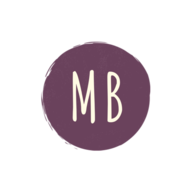
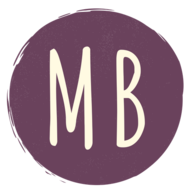
Cover photo changes & companies section added

diff --git a/css/new-age.min.css b/css/new-age.min.css
@@ -1,1 +1,1 @@
-body,html{width:100%;height:100%}body{font-family:Muli,Helvetica,Arial,sans-serif}a{color:#69425c;-webkit-transition:all .35s;-moz-transition:all .35s;transition:all .35s}a:focus,a:hover{color:#4a2e41}hr{max-width:100px;margin:25px auto 0;border-width:1px;border-color:rgba(34,34,34,.1)}hr.light{border-color:#fff}h1,h2,h3,h4,h5,h6{font-family:Catamaran,Helvetica,Arial,sans-serif;font-weight:500;font-size:20px;letter-spacing:1px}p{font-size:18px;line-height:1.5;margin-bottom:20px}section{padding:100px 0}section h2{font-size:50px}#mainNav{border-color:rgba(34,34,34,.05);background-color:#fff;-webkit-transition:all .35s;-moz-transition:all .35s;transition:all .35s;font-family:Catamaran,Helvetica,Arial,sans-serif;font-weight:500;font-size:20px;letter-spacing:1px}#mainNav .navbar-brand{color:#69425c;font-size:30px!important;font-family:Catamaran,Helvetica,Arial,sans-serif;font-weight:500;font-size:20px;letter-spacing:1px}#mainNav .navbar-brand:focus,#mainNav .navbar-brand:hover{color:#4a2e41}#mainNav .navbar-toggler{font-size:12px;padding:8px 10px;color:#222}#mainNav .navbar-nav>li>a{font-size:11px;font-family:Lato,Helvetica,Arial,sans-serif;letter-spacing:2px;text-transform:uppercase}#mainNav .navbar-nav>li>a.active{color:#69425c!important;background-color:transparent}#mainNav .navbar-nav>li>a.active:hover{background-color:transparent}#mainNav .navbar-nav>li>a,#mainNav .navbar-nav>li>a:focus{color:#222}#mainNav .navbar-nav>li>a:focus:hover,#mainNav .navbar-nav>li>a:hover{color:#69425c}@media (min-width:992px){#mainNav{border-color:transparent;background-color:transparent}#mainNav .navbar-brand{color:#69425c;font-size:30px!important}#mainNav .navbar-nav>li>a,#mainNav .navbar-nav>li>a:focus{color:rgba(255,255,255,.7)}#mainNav .navbar-nav>li>a:focus:hover,#mainNav .navbar-nav>li>a:hover{color:#fff}#mainNav.navbar-shrink{border-color:rgba(34,34,34,.1);background-color:#fff}#mainNav.navbar-shrink .navbar-brand{color:#69425c}#mainNav.navbar-shrink .navbar-nav>li>a,#mainNav.navbar-shrink .navbar-nav>li>a:focus{color:#222}#mainNav.navbar-shrink .navbar-nav>li>a:focus:hover,#mainNav.navbar-shrink .navbar-nav>li>a:hover{color:#69425c}}header.masthead{position:relative;width:100%;padding-top:150px;padding-bottom:100px;color:#fff;background:url(../img/maxresdefault.jpg),#7b4397;background:url(../img/maxresdefault.jpg),-webkit-linear-gradient(to left,#7b4397,#dc2430);background:url(../img/maxresdefault.jpg),linear-gradient(to left,#7b4397,#dc2430)}header.masthead .header-content{max-width:500px;margin-bottom:100px;text-align:center}header.masthead .header-content h1{font-size:30px}header.masthead .device-container{max-width:325px;margin-right:auto;margin-left:auto}header.masthead .device-container .screen img{border-radius:3px}@media (min-width:992px){header.masthead{height:100vh;min-height:775px;padding-top:0;padding-bottom:0}header.masthead .header-content{margin-bottom:0;text-align:left}header.masthead .header-content h1{font-size:40px}header.masthead .device-container{max-width:325px}}section.download{position:relative;padding:150px 0}section.download h2{font-size:50px;margin-top:0}section.download .badges .badge-link{display:block;margin-bottom:25px}section.download .badges .badge-link:last-child{margin-bottom:0}section.download .badges .badge-link img{height:60px}@media (min-width:768px){section.download .badges .badge-link{display:inline-block;margin-bottom:0}}@media (min-width:768px){section.download h2{font-size:70px}}section.features .section-heading{margin-bottom:100px}section.features .section-heading h2{margin-top:0}section.features .section-heading p{margin-bottom:0}section.features .device-container,section.features .feature-item{max-width:325px;margin:0 auto}section.features .device-container{margin-bottom:100px}@media (min-width:992px){section.features .device-container{margin-bottom:0}}section.features .feature-item{padding-top:50px;padding-bottom:50px;text-align:center}section.features .feature-item h3{font-size:30px}section.features .feature-item i{font-size:80px;display:block;margin-bottom:15px;background:-webkit-linear-gradient(to left,#7b4397,#dc2430);background:linear-gradient(to left,#7b4397,#dc2430);-webkit-background-clip:text;-webkit-text-fill-color:transparent}section.cta{position:relative;padding:250px 0;background-image:url(../img/bg-cta.jpg);background-position:center;-webkit-background-size:cover;-moz-background-size:cover;-o-background-size:cover;background-size:cover}section.cta .cta-content{position:relative;z-index:1}section.cta .cta-content h2{font-size:50px;max-width:450px;margin-top:0;margin-bottom:25px;color:#fff}@media (min-width:768px){section.cta .cta-content h2{font-size:80px}}section.cta .overlay{position:absolute;top:0;left:0;width:100%;height:100%;background-color:rgba(0,0,0,.5)}section.contact{text-align:center}section.contact h2{margin-top:0;margin-bottom:25px}section.contact h2 i{color:#dd4b39}section.contact ul.list-social{margin-bottom:0}section.contact ul.list-social li a{font-size:40px;line-height:80px;display:block;width:80px;height:80px;color:#fff;border-radius:100%}section.contact ul.list-social li.social-twitter a{background-color:#1da1f2}section.contact ul.list-social li.social-twitter a:hover{background-color:#0d95e8}section.contact ul.list-social li.social-facebook a{background-color:#3b5998}section.contact ul.list-social li.social-facebook a:hover{background-color:#344e86}section.contact ul.list-social li.social-google-plus a{background-color:#dd4b39}section.contact ul.list-social li.social-google-plus a:hover{background-color:#d73925}footer{padding:25px 0;text-align:center;color:rgba(255,255,255,.3);background-color:#222}footer p{font-size:12px;margin:0}footer ul{margin-bottom:0}footer ul li a{font-size:12px;color:rgba(255,255,255,.3)}footer ul li a.active,footer ul li a:active,footer ul li a:focus,footer ul li a:hover{text-decoration:none}.bg-primary{background:#69425c;background:-webkit-linear-gradient(#69425c,#59384e);background:linear-gradient(#69425c,#59384e)}.text-primary{color:#69425c}.no-gutter>[class*=col-]{padding-right:0;padding-left:0}.btn-outline{color:#fff;border:1px solid;border-color:#fff}.btn-outline.active,.btn-outline:active,.btn-outline:focus,.btn-outline:hover{color:#fff;border-color:#69425c;background-color:#69425c}.btn{border-radius:300px;font-family:Lato,Helvetica,Arial,sans-serif;letter-spacing:2px;text-transform:uppercase}.btn-xl{font-size:11px;padding:15px 45px}
+body,html{width:100%;height:100%}body{font-family:Muli,Helvetica,Arial,sans-serif}a{color:#69425c;-webkit-transition:all .35s;-moz-transition:all .35s;transition:all .35s}a:focus,a:hover{color:#4a2e41}hr{max-width:100px;margin:25px auto 0;border-width:1px;border-color:rgba(34,34,34,.1)}hr.light{border-color:#fff}h1,h2,h3,h4,h5,h6{font-family:Catamaran,Helvetica,Arial,sans-serif;font-weight:500;font-size:20px;letter-spacing:1px}p{font-size:18px;line-height:1.5;margin-bottom:20px}section{padding:100px 0}section h2{font-size:50px}#mainNav{border-color:rgba(34,34,34,.05);background-color:#fff;-webkit-transition:all .35s;-moz-transition:all .35s;transition:all .35s;font-family:Catamaran,Helvetica,Arial,sans-serif;font-weight:500;font-size:20px;letter-spacing:1px}#mainNav .navbar-brand{color:#69425c;font-size:30px!important;font-family:Catamaran,Helvetica,Arial,sans-serif;font-weight:500;font-size:20px;letter-spacing:1px}#mainNav .navbar-brand:focus,#mainNav .navbar-brand:hover{color:#4a2e41}#mainNav .navbar-toggler{font-size:12px;padding:8px 10px;color:#222}#mainNav .navbar-nav>li>a{font-size:11px;font-family:Lato,Helvetica,Arial,sans-serif;letter-spacing:2px;text-transform:uppercase}#mainNav .navbar-nav>li>a.active{color:#69425c!important;background-color:transparent}#mainNav .navbar-nav>li>a.active:hover{background-color:transparent}#mainNav .navbar-nav>li>a,#mainNav .navbar-nav>li>a:focus{color:#222}#mainNav .navbar-nav>li>a:focus:hover,#mainNav .navbar-nav>li>a:hover{color:#69425c}@media (min-width:992px){#mainNav{border-color:transparent;background-color:transparent}#mainNav .navbar-brand{color:#69425c;font-size:30px!important}#mainNav .navbar-nav>li>a,#mainNav .navbar-nav>li>a:focus{color:rgba(255,255,255,.7)}#mainNav .navbar-nav>li>a:focus:hover,#mainNav .navbar-nav>li>a:hover{color:#fff}#mainNav.navbar-shrink{border-color:rgba(34,34,34,.1);background-color:#fff}#mainNav.navbar-shrink .navbar-brand{color:#69425c}#mainNav.navbar-shrink .navbar-nav>li>a,#mainNav.navbar-shrink .navbar-nav>li>a:focus{color:#222}#mainNav.navbar-shrink .navbar-nav>li>a:focus:hover,#mainNav.navbar-shrink .navbar-nav>li>a:hover{color:#69425c}}header.masthead{position:relative;width:100%;padding-top:150px;padding-bottom:100px;color:#fff;background:url(../img/cover_women_cooking.jpg),#7b4397;background:url(../img/cover_women_cooking.jpg),-webkit-linear-gradient(to left,#7b4397,#dc2430);background:url(../img/cover_women_cooking.jpg),linear-gradient(to left,#7b4397,#dc2430)}header.masthead .header-content{max-width:500px;margin-bottom:100px;text-align:center}header.masthead .header-content h1{font-size:30px}header.masthead .device-container{max-width:325px;margin-right:auto;margin-left:auto}header.masthead .device-container .screen img{border-radius:3px}@media (min-width:992px){header.masthead{height:100vh;min-height:775px;padding-top:0;padding-bottom:0}header.masthead .header-content{margin-bottom:0;text-align:left}header.masthead .header-content h1{font-size:40px}header.masthead .device-container{max-width:325px}}section.download{position:relative;padding:150px 0}section.download h2{font-size:50px;margin-top:0}section.download .badges .badge-link{display:block;margin-bottom:25px}section.download .badges .badge-link:last-child{margin-bottom:0}section.download .badges .badge-link img{height:60px}@media (min-width:768px){section.download .badges .badge-link{display:inline-block;margin-bottom:0}}@media (min-width:768px){section.download h2{font-size:70px}}section.features .section-heading{margin-bottom:100px}section.features .section-heading h2{margin-top:0}section.features .section-heading p{margin-bottom:0}section.features .device-container,section.features .feature-item{max-width:325px;margin:0 auto}section.features .device-container{margin-bottom:100px}@media (min-width:992px){section.features .device-container{margin-bottom:0}}section.features .feature-item{padding-top:50px;padding-bottom:50px;text-align:center}section.features .feature-item h3{font-size:30px}section.features .feature-item i{font-size:80px;display:block;margin-bottom:15px;background:-webkit-linear-gradient(to left,#7b4397,#dc2430);background:linear-gradient(to left,#7b4397,#dc2430);-webkit-background-clip:text;-webkit-text-fill-color:transparent}section.cta{position:relative;padding:250px 0;background-image:url(../img/bg-cta.jpg);background-position:center;-webkit-background-size:cover;-moz-background-size:cover;-o-background-size:cover;background-size:cover}section.cta .cta-content{position:relative;z-index:1}section.cta .cta-content h2{font-size:50px;max-width:450px;margin-top:0;margin-bottom:25px;color:#fff}@media (min-width:768px){section.cta .cta-content h2{font-size:80px}}section.cta .overlay{position:absolute;top:0;left:0;width:100%;height:100%;background-color:rgba(0,0,0,.5)}section.contact{text-align:center}section.contact h2{margin-top:0;margin-bottom:25px}section.contact h2 i{color:#dd4b39}section.contact ul.list-social{margin-bottom:0}section.contact ul.list-social li a{font-size:40px;line-height:80px;display:block;width:80px;height:80px;color:#fff;border-radius:100%}section.contact ul.list-social li.social-twitter a{background-color:#1da1f2}section.contact ul.list-social li.social-twitter a:hover{background-color:#0d95e8}section.contact ul.list-social li.social-facebook a{background-color:#3b5998}section.contact ul.list-social li.social-facebook a:hover{background-color:#344e86}section.contact ul.list-social li.social-google-plus a{background-color:#dd4b39}section.contact ul.list-social li.social-google-plus a:hover{background-color:#d73925}footer{padding:25px 0;text-align:center;color:rgba(255,255,255,.3);background-color:#222}footer p{font-size:12px;margin:0}footer ul{margin-bottom:0}footer ul li a{font-size:12px;color:rgba(255,255,255,.3)}footer ul li a.active,footer ul li a:active,footer ul li a:focus,footer ul li a:hover{text-decoration:none}.bg-primary{background:#69425c;background:-webkit-linear-gradient(#69425c,#59384e);background:linear-gradient(#69425c,#59384e)}.text-primary{color:#69425c}.no-gutter>[class*=col-]{padding-right:0;padding-left:0}.btn-outline{color:#fff;border:1px solid;border-color:#fff}.btn-outline.active,.btn-outline:active,.btn-outline:focus,.btn-outline:hover{color:#fff;border-color:#69425c;background-color:#69425c}.btn{border-radius:300px;font-family:Lato,Helvetica,Arial,sans-serif;letter-spacing:2px;text-transform:uppercase}.btn-xl{font-size:11px;padding:15px 45px}

diff --git a/index.html b/index.html
@@ -42,7 +42,7 @@
     <nav class="navbar navbar-expand-lg navbar-light fixed-top" id="mainNav">
       <div class="container">
         <a class="navbar-brand js-scroll-trigger" href="#page-top">
-          <img src="../img/Icon.PNG" width="62px"></img>
+          <img src="../img/MB.PNG" width="62px"></img>
           <span style="vertical-align: text-bottom;">Mombay</span>
         </a>
         <button class="navbar-toggler navbar-toggler-right" type="button" data-toggle="collapse" data-target="#navbarResponsive" aria-controls="navbarResponsive" aria-expanded="false" aria-label="Toggle navigation">
@@ -56,6 +56,9 @@
             </li>
             <li class="nav-item">
               <a class="nav-link js-scroll-trigger" href="#joinUs">Join Us</a>
+            </li>
+            <li class="nav-item">
+              <a class="nav-link js-scroll-trigger" href="#forCompanies">For Companies</a>
             </li>
             <li class="nav-item">
               <a class="nav-link js-scroll-trigger" href="#contact">Contact</a>
@@ -118,7 +121,7 @@
             <div class="feature-item">
               <i class="fas fa-rupee-sign"></i>
               <h3>Make Easy Money</h3>
-              <p class="text-muted">Add a atleat ₹7000 to your monthly family income. And of course sky is the limit!</p>
+              <p class="text-muted">Add a at least ₹7000 to your monthly family income. And of course sky is the limit!</p>
             </div>
           </div>
         </div>
@@ -167,6 +170,56 @@
       </div>
     </section>
 
+    <section class="contact" id="forCompanies">
+      <div class="container">
+        <h2>Mombay for Business</h2>
+        <p>Get home cooked meals at work.</p>
+        <div class="mt-5 row">
+          <div class="col-lg-6 col-sm-12 offset-lg-3">
+            <form id="cook_register" onsubmit="saveCompanyData(event)">
+              <div class="form-group row">
+                <label class="col-form-label col-lg-4 col-sm-12 text-left" style="font-size: 25px;" for="customer_name"><h3>Name</h3></label>
+                <div class="col-lg-8 col-sm-12">
+                  <input type="text" class="form-control" id="customer_name" placeholder="Enter Name" required>
+                </div>
+              </div>
+              <div class="form-group row">
+                <label class="col-form-label col-lg-4 col-sm-12 text-left" style="font-size: 25px;" for="customer_email"><h3>Email</h3></label>
+                <div class="col-lg-8 col-sm-12">
+                  <input type="email" class="form-control" id="customer_email" placeholder="Enter Email" required>
+                </div>
+              </div>
+              <div class="form-group row">
+                <label class="col-form-label col-lg-4 col-sm-12 text-left" style="font-size: 25px;" for="customer_phone_number"><h3>Phone Number</h3></label>
+                <div class="col-lg-8 col-sm-12">
+                  <input type="text" maxlength="10" minlength="10" class="form-control" id="customer_phone_number" placeholder="Enter Phone Number" required>
+                </div>
+              </div>
+              <div class="form-group row">
+                <label class="col-form-label col-lg-4 col-sm-12 text-left" style="font-size: 25px;" for="company_name"><h3>Company Name</h3></label>
+                <div class="col-lg-8 col-sm-12">
+                  <input type="text" class="form-control" id="company_name" placeholder="Enter Company Name" required>
+                </div>
+              </div>
+              <div class="form-group row">
+                <label class="col-form-label col-lg-4 col-sm-12 text-left" style="font-size: 25px;" for="no_of_employee"><h3>No. of employee</h3></label>
+                <div class="col-lg-8 col-sm-12">
+                  <select class="form-control" id="no_of_employee">
+                    <option value="30-50">30-50</option>
+                    <option value="50-100">50-100</option>
+                    <option value="150-300">150-300</option>
+                    <option value="300-500">300-500</option>
+                    <option value="500-1500">500-1500</option>
+                    <option value="1500-3000">1500-3000</option>
+                  </select>
+                </div>
+              </div>
+              <button type="submit" class="btn btn-primary">Submit</button>
+            </form>
+          </div>
+        </div>
+      </div>
+    </section>
 
 <!--     <section class="features" id="features">
       <div class="container">
@@ -241,10 +294,10 @@
       <div class="overlay"></div>
     </section> -->
 
-    <section class="contact" id="contact">
+    <section class="contact" id="contact" style="background-color: #b1364d;">
       <div class="container">
         <h2>Contact Us</h2>
-        <p class="text-muted">You can drop us a message in any of these social media platform.</p>
+        <p>You can drop us a message in any of these social media platform.</p>
         <ul class="list-inline list-social">
           <li class="list-inline-item social-twitter">
             <a href="https://twitter.com/mombay_in" target="_blank">
@@ -262,12 +315,16 @@
             </a>
           </li>
         </ul>
+        <div style="font-size: 25px;margin: 5px 0px;">
+          or
+        </div>
+        <p>You can give us a call @ +919769242393 or send email @ <a href="mombayltd@gmail.com">contact@mombay.in</a></p>
       </div>
     </section>
 
     <footer>
       <div class="container">
-        <p>&copy; Your Website 2018. All Rights Reserved.</p>
+        <p>&copy; Masionbay Hospitality Pvt Ltd. 2018. All Rights Reserved.</p>
 <!--         <ul class="list-inline">
           <li class="list-inline-item">
             <a href="#">Privacy</a>
@@ -308,6 +365,30 @@
             'phone_number': phone_number,
             'address': address,
             'type_of_meal': type_of_meal
+          },
+          success: function(res) {
+            console.log(res)
+          }
+        })
+      }
+      function saveCompanyData(e) {
+        e.preventDefault();
+        let name = document.getElementById('customer_name').value;
+        let phone_number = document.getElementById('customer_phone_number').value;
+        let email = document.getElementById('customer_email').value;
+        let company_name = document.getElementById('company_name').value;
+        let no_of_employee = document.getElementById('no_of_employee').value;
+
+        var jqxhr = $.ajax({
+          url: 'https://script.google.com/macros/s/AKfycbwGLM0t4HfS0XTEKHkW0kDn1-vryD9ohI657YyBAhfp4RG9DA/exec',
+          method: "GET",
+          dataType: "json",
+          data: {
+            'name': name,
+            'email': email,
+            'phone_number': phone_number,
+            'company_name': company_name,
+            'no_of_employee': no_of_employee
           },
           success: function(res) {
             console.log(res)

diff --git a/scss/_masthead.scss b/scss/_masthead.scss
@@ -7,9 +7,9 @@ header.masthead {
     padding-bottom: 100px;
 
     color: white;
-    background: url('../img/maxresdefault.jpg'), $theme-secondary;
-    background: url('../img/maxresdefault.jpg'), -webkit-linear-gradient(to left, $theme-secondary, $theme-tertiary);
-    background: url('../img/maxresdefault.jpg'), linear-gradient(to left, $theme-secondary, $theme-tertiary);
+    background: url('../img/cover_women_cooking.jpg'), $theme-secondary;
+    background: url('../img/cover_women_cooking.jpg'), -webkit-linear-gradient(to left, $theme-secondary, $theme-tertiary);
+    background: url('../img/cover_women_cooking.jpg'), linear-gradient(to left, $theme-secondary, $theme-tertiary);
     .header-content {
         max-width: 500px;
         margin-bottom: 100px;

diff --git a/css/new-age.css b/css/new-age.css
@@ -153,9 +153,9 @@ header.masthead {
   padding-top: 150px;
   padding-bottom: 100px;
   color: white;
-  background: url("../img/maxresdefault.jpg"), #7b4397;
-  background: url("../img/maxresdefault.jpg"), -webkit-linear-gradient(to left, #7b4397, #dc2430);
-  background: url("../img/maxresdefault.jpg"), linear-gradient(to left, #7b4397, #dc2430);
+  background: url("../img/cover_women_cooking.jpg"), #7b4397;
+  background: url("../img/cover_women_cooking.jpg"), -webkit-linear-gradient(to left, #7b4397, #dc2430);
+  background: url("../img/cover_women_cooking.jpg"), linear-gradient(to left, #7b4397, #dc2430);
 }
 
 header.masthead .header-content {
